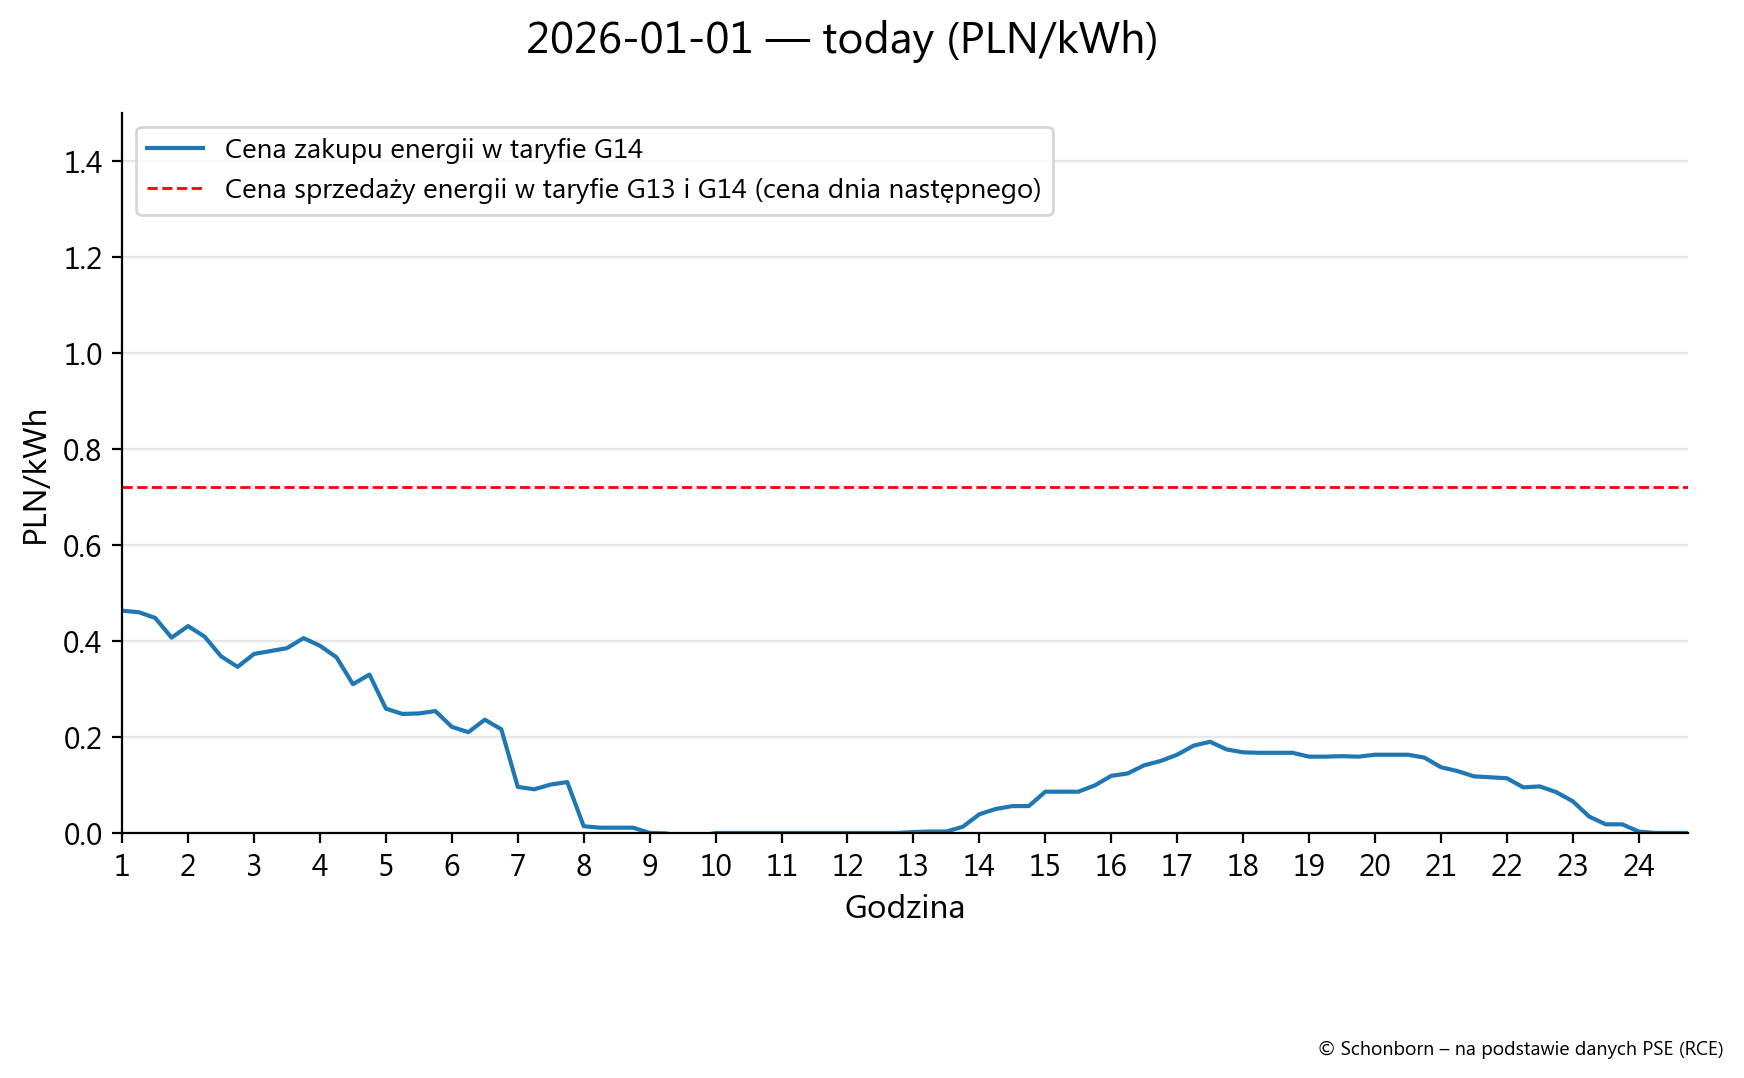
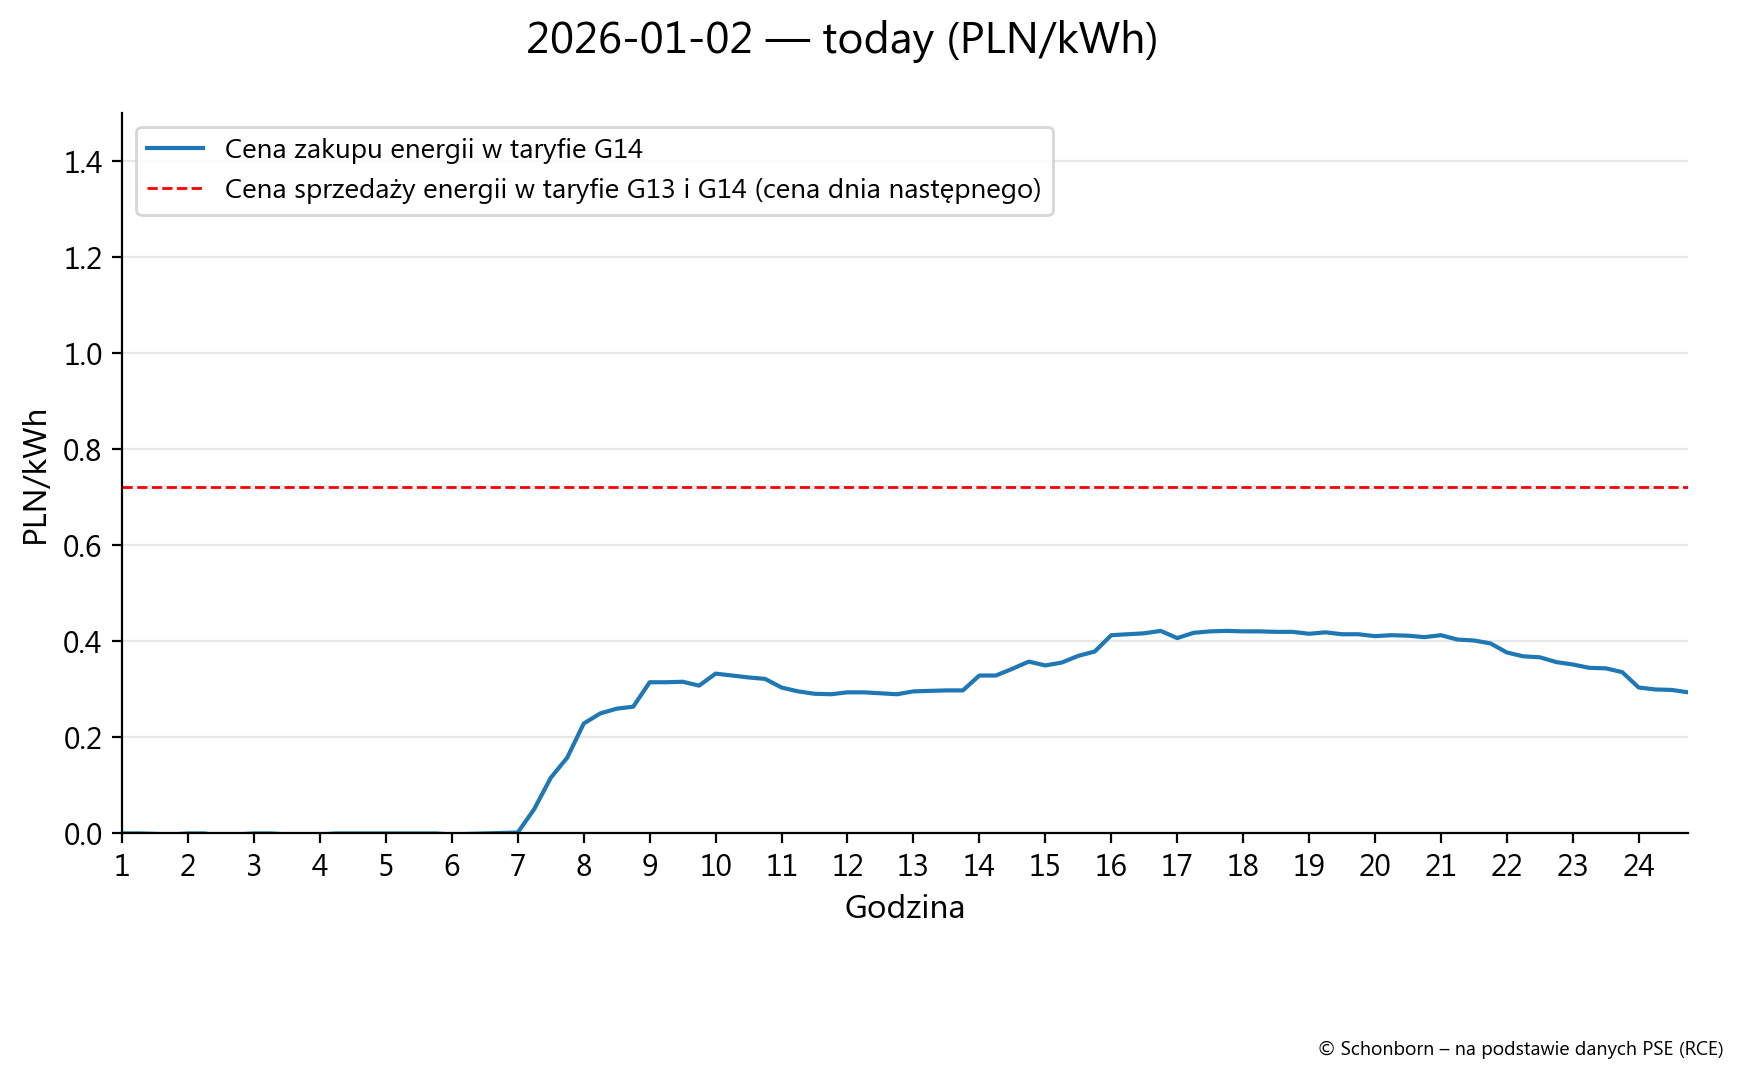
site: update 2026-01-01 23:15 UTC

diff --git a/site/html_01_tabele_wykresy_g14_today_tomorrow.html b/site/html_01_tabele_wykresy_g14_today_tomorrow.html
@@ -140,14 +140,14 @@
 <section class="hero">
   <div class="kicker">Dane</div>
   <h1>Taryfa — dzisiaj i jutro</h1>
-  <p class="muted">Strona wygenerowana: 2026-01-01 17:00:32</p>
-  <p class="muted">Dane (dzisiaj) — ostatnia próbka: 2026-01-01 23:45:00</p>
+  <p class="muted">Strona wygenerowana: 2026-01-02 00:15:31</p>
+  <p class="muted">Dane (dzisiaj) — ostatnia próbka: 2026-01-02 23:45:00</p>
   <p class="muted">Dane (jutro) — ostatnia próbka: brak danych</p>
 </section>
 
 <section class="content">
   <h2>Dzisiaj</h2>
-  <p class="muted">Dzień danych: 2026-01-01</p>
+  <p class="muted">Dzień danych: 2026-01-02</p>
 
   
 
@@ -814,7 +814,7 @@
             <td class="left-2">20:15</td>
             <td class="cat-c">0,469</td>
             <td class="cat-c">c</td>
-            <td class="cat-c">0,529</td>
+            <td class="cat-c">0,579</td>
             <td class="cat-c">c</td>
           </tr>
           <tr>
@@ -822,7 +822,7 @@
             <td class="left-2">20:30</td>
             <td class="cat-c">0,466</td>
             <td class="cat-c">c</td>
-            <td class="cat-c">0,526</td>
+            <td class="cat-c">0,576</td>
             <td class="cat-c">c</td>
           </tr>
           <tr>
@@ -830,7 +830,7 @@
             <td class="left-2">20:45</td>
             <td class="cat-c">0,466</td>
             <td class="cat-c">c</td>
-            <td class="cat-c">0,526</td>
+            <td class="cat-c">0,576</td>
             <td class="cat-c">c</td>
           </tr>
           <tr>
@@ -838,7 +838,7 @@
             <td class="left-2">21:00</td>
             <td class="cat-c">0,455</td>
             <td class="cat-c">c</td>
-            <td class="cat-c">0,515</td>
+            <td class="cat-c">0,565</td>
             <td class="cat-c">c</td>
           </tr>
           <tr>
@@ -910,7 +910,7 @@
             <td class="left-2">23:15</td>
             <td class="cat-c">0,441</td>
             <td class="cat-c">c</td>
-            <td class="cat-c">0,551</td>
+            <td class="cat-c">0,501</td>
             <td class="cat-c">c</td>
           </tr>
           <tr>
@@ -918,7 +918,7 @@
             <td class="left-2">23:30</td>
             <td class="cat-c">0,447</td>
             <td class="cat-c">c</td>
-            <td class="cat-c">0,557</td>
+            <td class="cat-c">0,507</td>
             <td class="cat-c">c</td>
           </tr>
           <tr>
@@ -926,7 +926,7 @@
             <td class="left-2">23:45</td>
             <td class="cat-c">0,443</td>
             <td class="cat-c">c</td>
-            <td class="cat-c">0,553</td>
+            <td class="cat-c">0,503</td>
             <td class="cat-c">c</td>
           </tr>
           <tr>
@@ -934,7 +934,7 @@
             <td class="left-2">00:00</td>
             <td class="cat-c">0,442</td>
             <td class="cat-c">c</td>
-            <td class="cat-c">0,552</td>
+            <td class="cat-c">0,502</td>
             <td class="cat-c">c</td>
           </tr>
       </tbody>
@@ -942,18 +942,18 @@
   </div>
 
   <h3>Ceny energii elektrycznej netto (RCE) — dzisiaj</h3>
-  <div class="chart"><img class="small" src="assets/img/ceny_09_z_01_rce_today.png" alt="RCE today — 2026-01-01"><p class="muted">Wykres: assets/img/ceny_09_z_01_rce_today.png</p></div>
+  <div class="chart"><img class="small" src="assets/img/ceny_09_z_01_rce_today.png" alt="RCE today — 2026-01-02"><p class="muted">Wykres: assets/img/ceny_09_z_01_rce_today.png</p></div>
 
   <h3>Energetyczny Kompas PSE — na dzisiaj</h3>
   <div class="chart">
-    <img class="kompas-img kompas-clickable" src="assets/img/ceny_03_kompas_today.png" data-full-src="assets/img/ceny_03_kompas_today.png" alt="Energetyczny Kompas PSE — 2026-01-01">
-    <p class="muted">Energetyczny Kompas PSE, data: 2026-01-01</p>
+    <img class="kompas-img kompas-clickable" src="assets/img/ceny_03_kompas_today.png" data-full-src="assets/img/ceny_03_kompas_today.png" alt="Energetyczny Kompas PSE — 2026-01-02">
+    <p class="muted">Energetyczny Kompas PSE, data: 2026-01-02</p>
   </div>
 </section>
 
 <section class="content">
   <h2>Jutro</h2>
-  <p class="muted">Dzień danych: 2026-01-02</p>
+  <p class="muted">Dzień danych: 2026-01-03</p>
 
   <p class="notice-tomorrow"><strong>Dane na jutro dostępne będą po 14 stej</strong></p>
 

diff --git a/site/html_02_raport_ze_stanu_teraz.html b/site/html_02_raport_ze_stanu_teraz.html
@@ -18,7 +18,7 @@
   </div>
 
   <section class="hero">
-    <div class="kicker">Ostatni odczyt: 02.01.2026 00:00</div>
+    <div class="kicker">Ostatni odczyt: 02.01.2026 00:15</div>
     <h1>Raport ze stanu teraz</h1>
     <p>
       Taryfy Tauron:
@@ -42,7 +42,7 @@
       <tbody>
         <tr>
           <th style="width:40%;">Czas odczytu</th>
-          <td>02.01.2026 00:00</td>
+          <td>02.01.2026 00:15</td>
         </tr>
         <tr>
           <th>Położenie</th>
@@ -62,15 +62,15 @@
       <tbody>
         <tr>
           <th style="width:40%;">Produkcja PV dzisiaj [kWh]</th>
-          <td>2.60</td>
+          <td>0.00</td>
         </tr>
         <tr>
           <th>Zużycie energii dzisiaj [kWh]</th>
-          <td>7.40</td>
+          <td>0.00</td>
         </tr>
         <tr>
           <th>Energia pobrana z sieci dzisiaj [kWh]</th>
-          <td>8.90</td>
+          <td>0.00</td>
         </tr>
         <tr>
           <th>Zużycie z sieci dzisiaj [kWh]</th>
@@ -106,7 +106,7 @@
         </tr>
         <tr>
           <th>Moc z / do sieci [W]</th>
-          <td>304</td>
+          <td>282</td>
         </tr>
         <tr>
           <th>Moc z / do baterii [W]</th>
@@ -150,7 +150,7 @@
         </tr>
         <tr>
           <th>Napięcie [V]</th>
-          <td>236.72</td>
+          <td>238.52</td>
         </tr>
         <tr>
           <th>Prąd [A]</th>

diff --git a/site/html_03_g13_g14_porownanie.html b/site/html_03_g13_g14_porownanie.html
@@ -18,7 +18,7 @@
   </div>
 
   <section class="hero">
-    <div class="kicker">Ceny sprzedaży i zakupu energii oraz tryb SolaX (ostatni odczyt: 2026-01-02 00:00:01, strona wygenerowana 2026-01-02 00:00:30)</div>
+    <div class="kicker">Ceny sprzedaży i zakupu energii oraz tryb SolaX (ostatni odczyt: 2026-01-02 00:15:01, strona wygenerowana 2026-01-02 00:15:47)</div>
     <h1>Ceny energii i tryb SolaX</h1>
     <p>
       Taryfy Tauron:
@@ -44,15 +44,15 @@
       <tbody>
         <tr>
           <td>Cena sprzedaży energii (SELL)</td>
-          <td></td>
+          <td>0,333</td>
         </tr>
         <tr>
           <td>Cena zakupu energii w taryfie G13</td>
-          <td></td>
+          <td>0,690</td>
         </tr>
         <tr>
           <td>Cena zakupu energii w taryfie G14</td>
-          <td></td>
+          <td>0,443</td>
         </tr>
       </tbody>
     </table>
